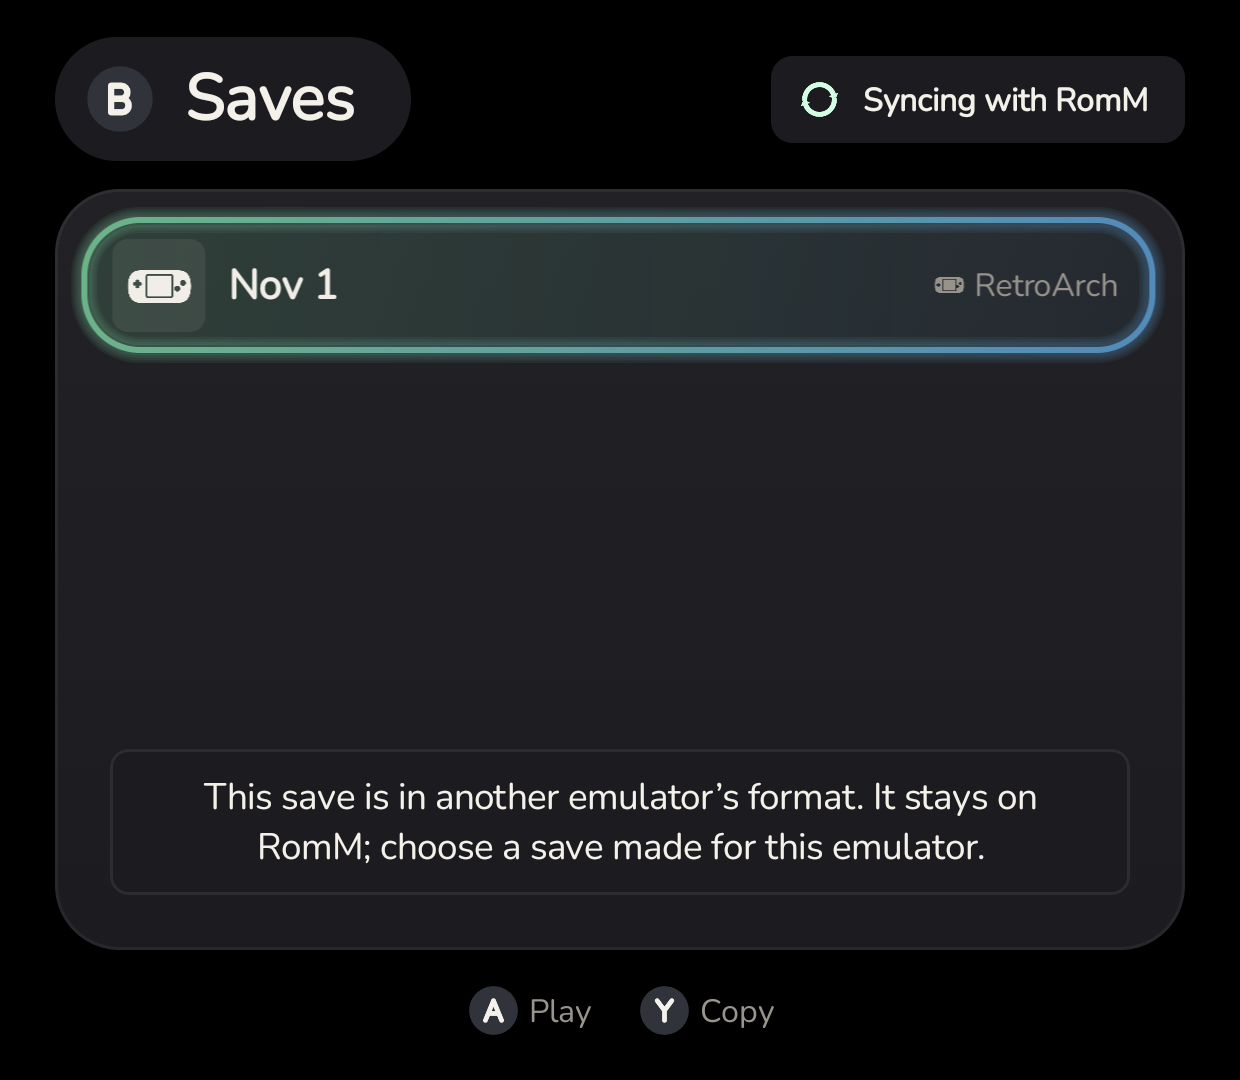
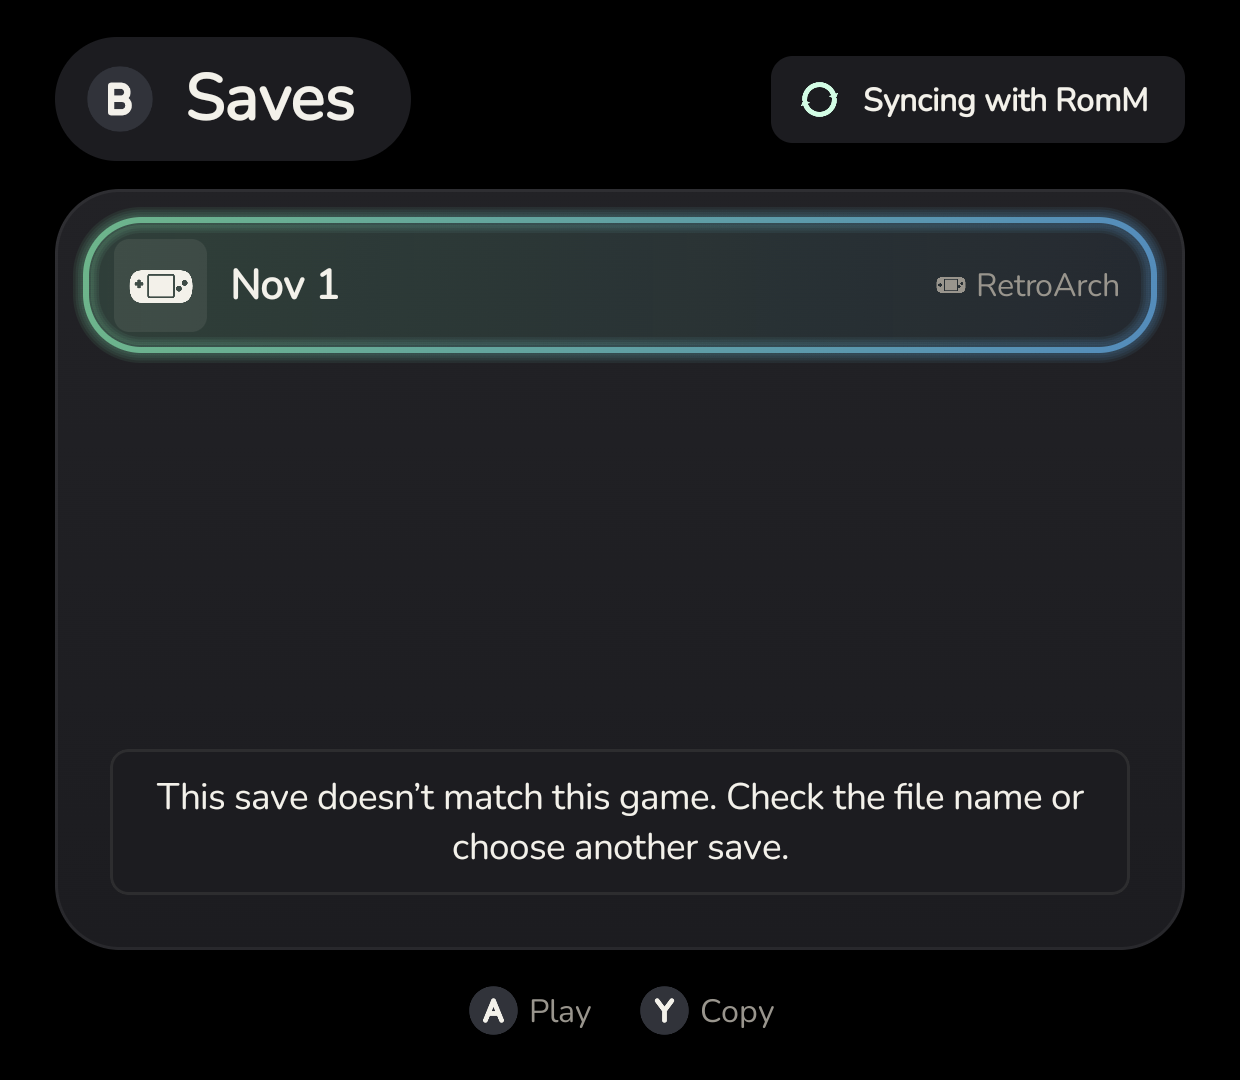
Record SNES clocks and live EX emulator QA

diff --git a/qa-evidence.md b/qa-evidence.md
@@ -1,8 +1,8 @@
 # Thor QA: EX saves, 4 November 2026
 
-Final scope: GBA.emu, GBC.emu GB/GBC, NES.emu/FDS, Snes9x EX+, MD.emu Genesis/Master System/Sega CD. Flycast remains launch-only after its real live-folder access check failed. M64Plus and Pizza Boy are deferred for the source-linked limits in the PR.
+Final scope: GBA.emu, GBC.emu GB/GBC, NES.emu/FDS, Snes9x EX+ with S-RTC/SPC7110 RTC, MD.emu Genesis/Master System/Sega CD. Flycast remains launch-only after its real live-folder access check failed. M64Plus and Pizza Boy are deferred for the source-linked limits in the PR.
 
-All QA used the isolated application `app.foldcade.saves_more_emulators_2`, CI music assets, and throwaway save bytes through production ContentResolver, PlayerSaves and RommClient code. The temporary debug activities were removed before the final commit. No real game was launched. The real `app.foldcade` application was never installed over, cleared, reconfigured or uninstalled.
+All QA used the isolated application `app.foldcade.saves_more_emulators_2`, CI music assets, and throwaway save bytes through production ContentResolver, PlayerSaves and RommClient code. The temporary debug activities were removed before the final commit. No library game was launched. The final round ran a self-authored SRAM test program in the official GBA.emu app. The real `app.foldcade` application was never installed over, cleared, reconfigured or uninstalled.
 
 The first pass exercised all eight EX player/platform routes: exact basename and companion filtering, upload to unique `foldcade-probe-<uuid>-<index>` slots on ROM 23 Gain Ground, hash-verified download, refusal over unseen local progress, durable backup and restore, and preservation of unrelated files. The original synthetic Flycast-home check was insufficient and is superseded by the live-folder result below.
 
@@ -40,3 +40,30 @@ Official free apps installed for QA and left installed:
 - MD.emu 1.5.85 — `com.explusalpha.MdEmu`.
 
 Flycast came from the project's official v2.7 GitHub release. EX APKs came from the project's official Pre-release archives at source `1c12fac5`. No payment, store login, mirrored APK or root was used.
+
+## Final review fixes and live emulator check
+
+The branch was rebased onto main after #367 merged as `975ca9c9`. Main uses plugin API minor 22; root archives now use minor 23, and format validation uses minor 24. The full forced suite passed again (187 tasks).
+
+GBA ZIP, GBC ZIP/RTC and SNES ZIP/named-slot routes were repeated. SNES included both its 20-byte root `.rtc` and `saves/run 2/auto.rtc`. Each archive round-tripped and placed twice through production ContentResolver/PlayerSaves/RommClient. The real Y › Saves screen also repeated the raw RetroArch refusal using the final shorter copy. Renamed-ROM opt-out and the distinction from a failed provider write have regression tests; unreadable or hash-invalid bytes do not grant that opt-out.
+
+The official GBA.emu app initially had Content Folder saves and no recent content. Its Android picker was used to select `saves/GBA.emu`, matching Foldcade's root. A self-authored 128 KB GBA test ROM writes a counter and marker to a 32 KB SRAM file. The source is `smoke.s`; it uses no game assets or BIOS. Two copies, `Foldcade SRAM A.gba` and `Foldcade SRAM B.gba`, were opened through the production EX PlayerIntent and Android intent conversion, including NewTask/ClearTop/ClearTask and the FileProvider read grant.
+
+- A loaded seeded counter 0x20 and wrote 0x21 plus marker 0x51 in `Foldcade SRAM A.sav`.
+- After returning to Foldcade, its actual archive uploaded to a throwaway ROM 23 slot and downloaded with a matching hash.
+- With GBA.emu in the background, B launched successfully, restarted the emulator process, and wrote 0x31 from seed 0x30. That archive also round-tripped.
+- Foldcade then backed up A and placed a replacement with counter 0x40. A relaunched and showed EX's older-autosave warning. Declining it produced 0x41 and another verified round-trip.
+- An additional same-game check showed that Main Slot can resume its autosave without running the boot path again. The battery stayed at the placed bytes. Selecting Main Slot (No State), as now required by the guide, restarted from those bytes, wrote 0x41 and round-tripped successfully. Foldcade cannot read or rewrite EX's private launch-mode preference. The warning alone is not a substitute for that mode.
+
+The recorded emulator PIDs changed from 30412 (A) to 30598 (B) to 30762 (A reload), confirming real process restarts. `smoke-proof.json` records the counters and probe IDs. This closes the launch-flags and real-write-path QA gaps using throwaway data.
+
+The prior Main Slot and Content Folder choices were restored in the official app. Its initially unused QA installation was then restored from the same official APK, removing the temporary URI grant and test-only recent entries; it remains installed with the original defaults. Other official QA apps remain installed.
+
+Final cleanup deleted exactly rows 111–117 and both QA device registrations. All 33 baseline RomM saves retained their fingerprints. All 137 baseline device-file hashes matched. Backups were exported to the local `review2/save-backups.tar`. The isolated Foldcade app, ROM fixtures, batteries, clock files and test autosave states were removed. HOME stayed `app.foldcade`; stayon was false and the turn released.
+
+Additional images:
+- `gba-live-write.png`: self-authored test executing in official GBA.emu.
+- `gba-save-root.png`: the official app's chosen GBA.emu save directory.
+- `gba-no-state.png`: Main Slot (No State) used for the final fresh battery launch.
+- `gba-autosave-warning.png`: actual older-state warning after a placed battery.
+- `gba-format-refused.png`: final Y › Saves refusal copy.
